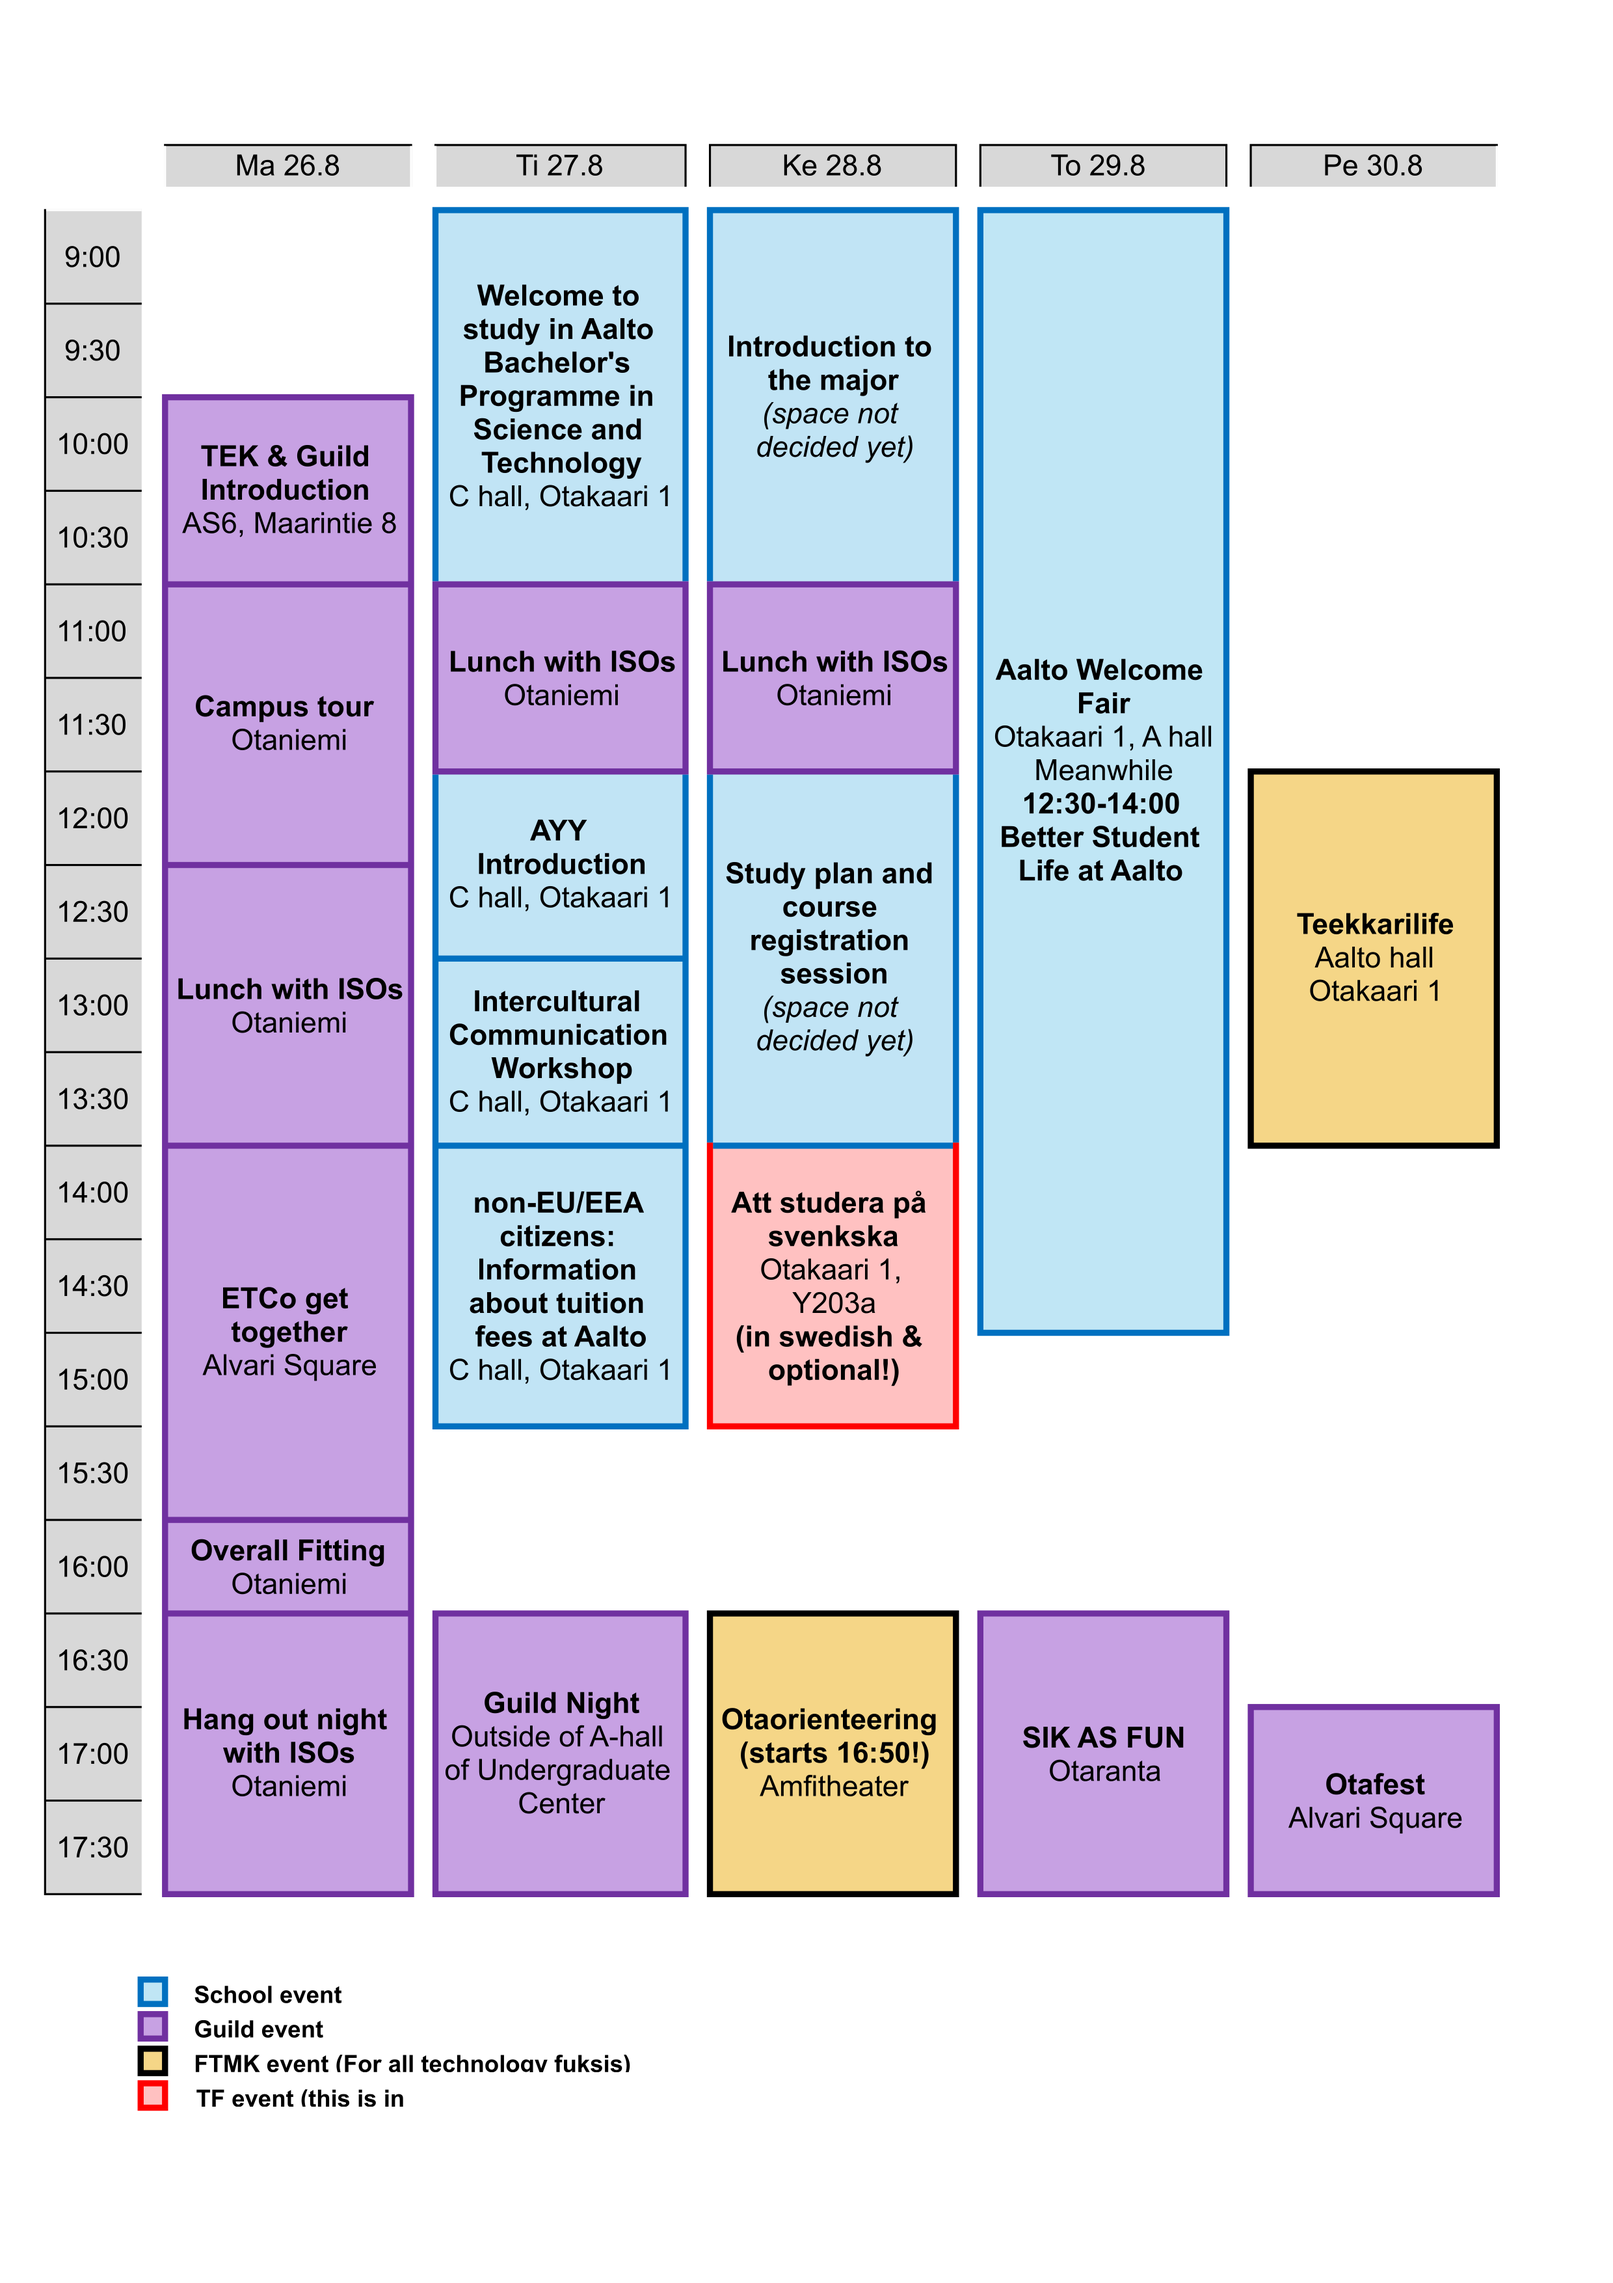
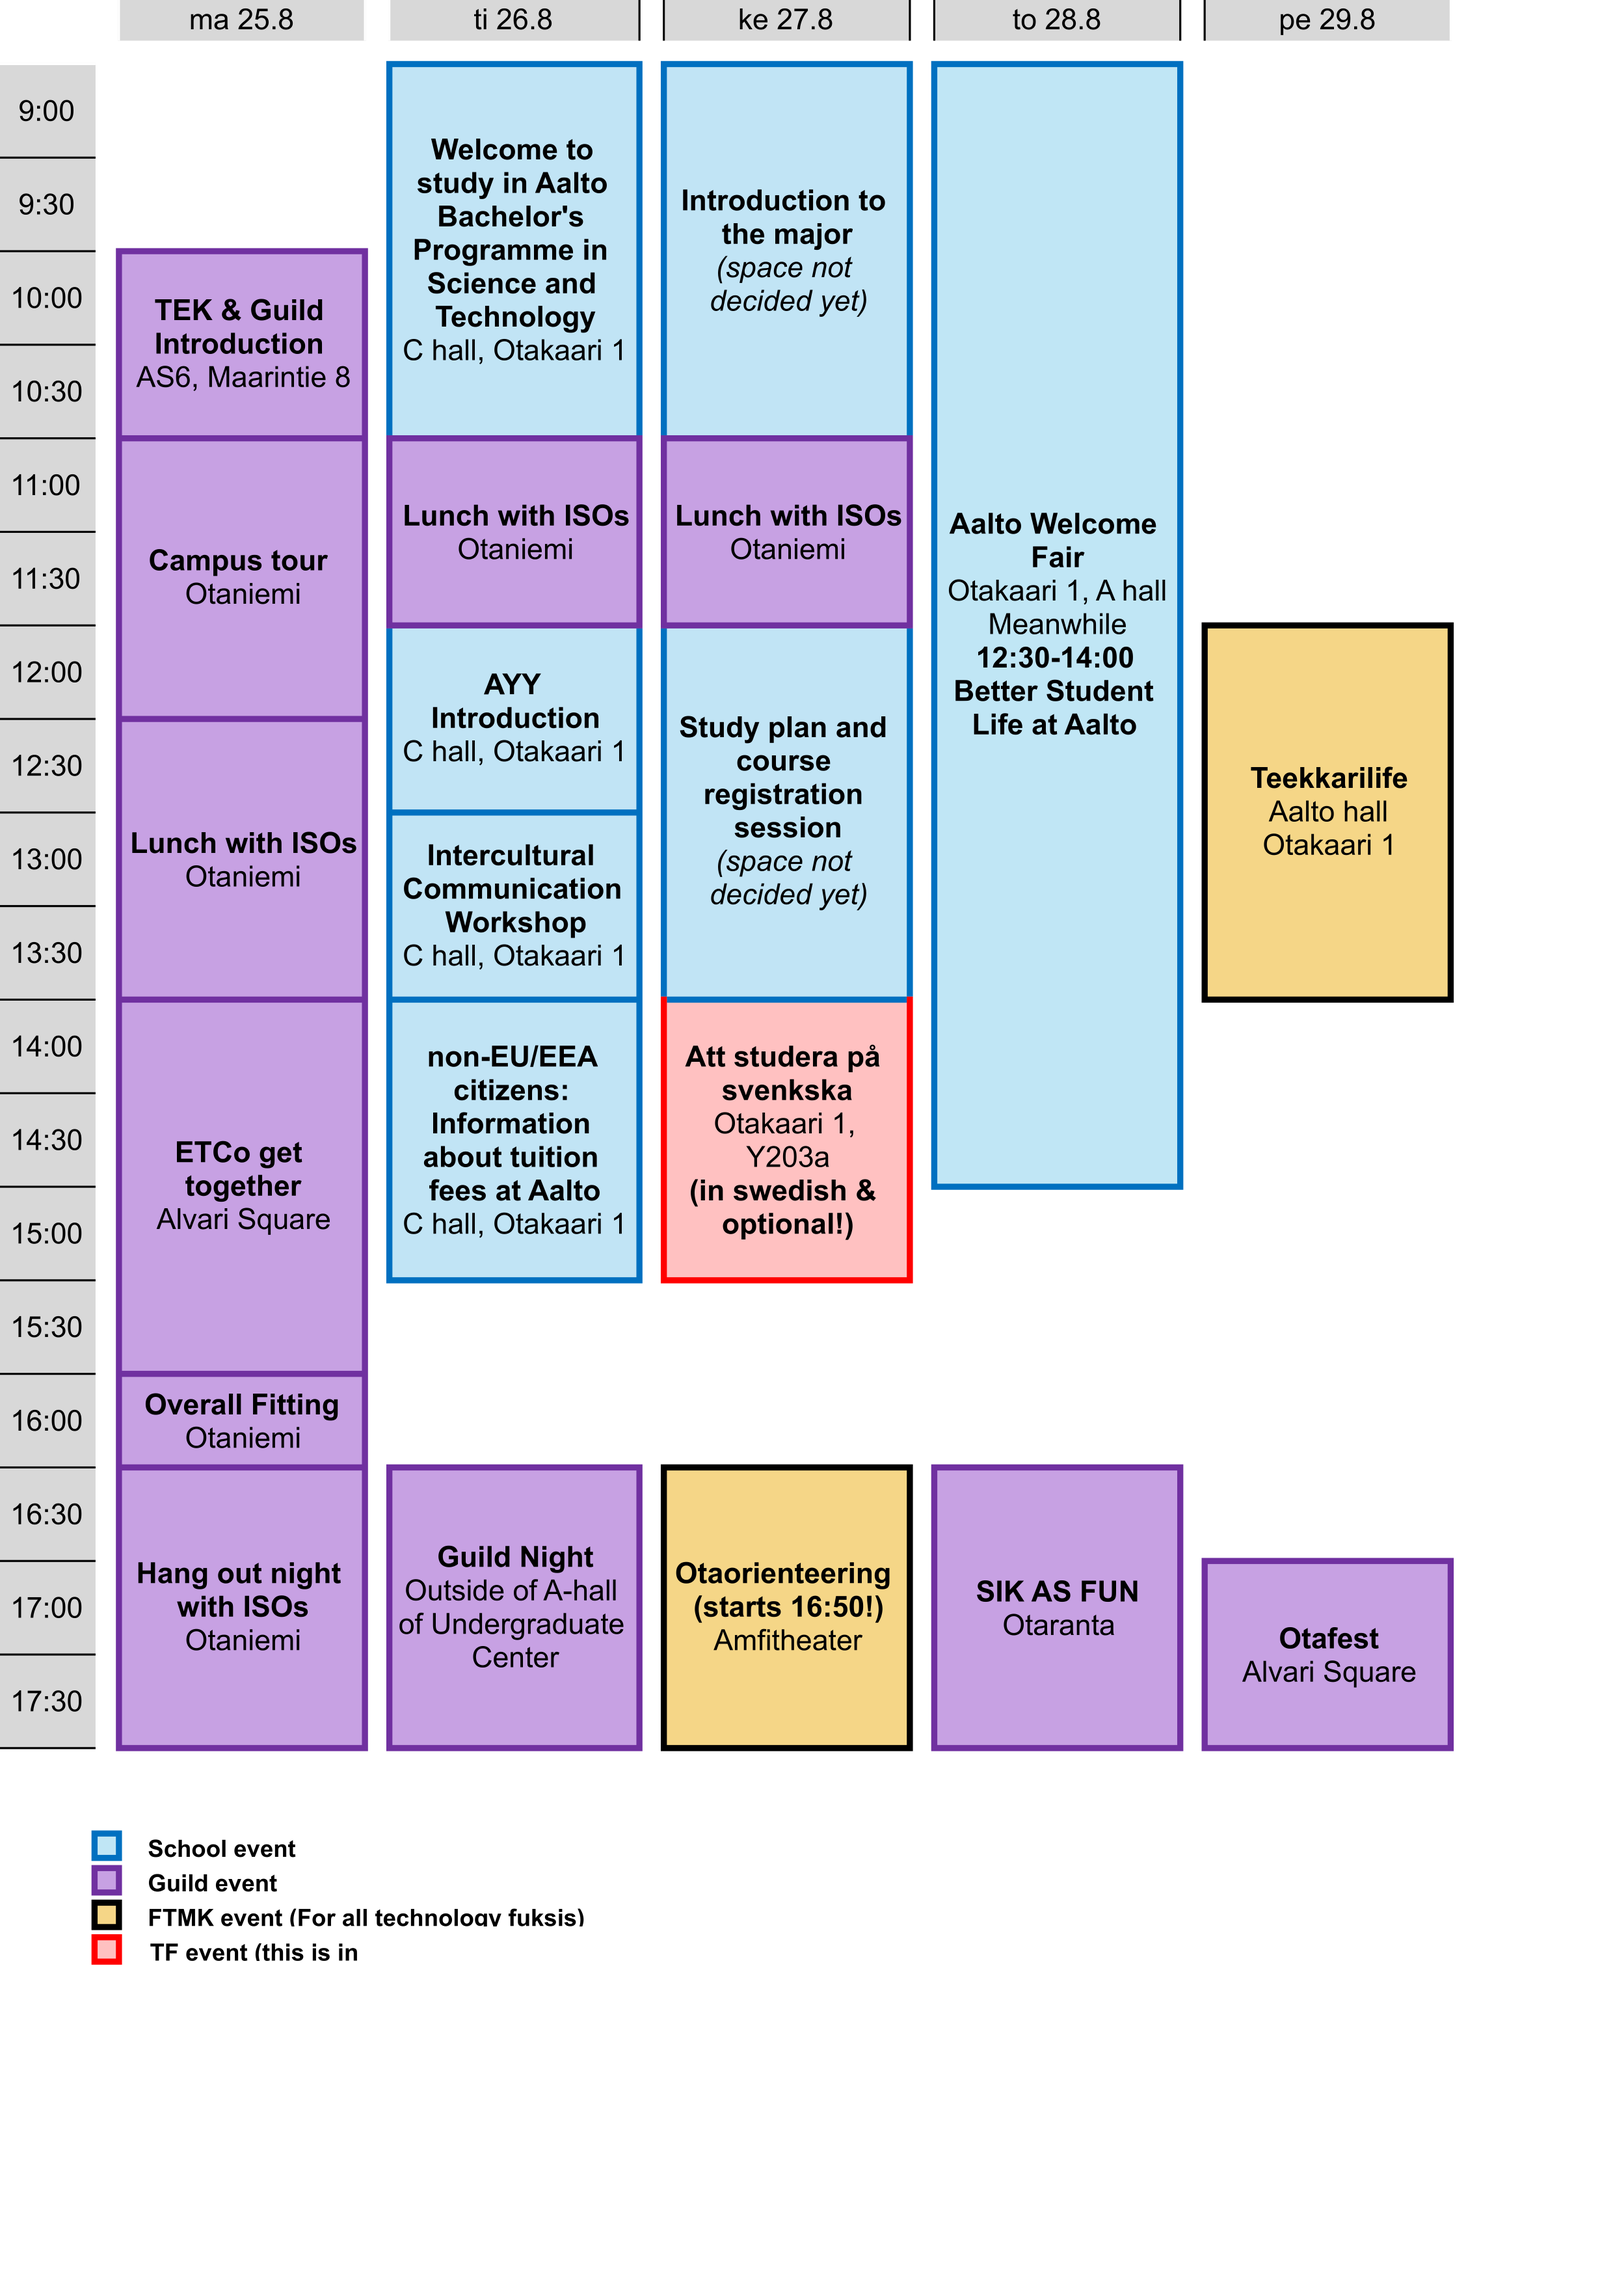
Fixed dates in DSD orientationweek Fixed Fuksticaptin -> Fuksi Captain

diff --git a/src/pages/en/fuksis/index.tsx b/src/pages/en/fuksis/index.tsx
@@ -17,7 +17,7 @@ interface Props extends PageProps {
 
 const Fuksis: React.FC<Props> = ({ pageContext }) => {
   const data1 = {
-    title: 'Fuksicaptain',
+    title: 'Fuksi Captain',
     name: 'Joel Forsström',
     email: 'fuksikapteeni@as.fi',
     phone: '+358 417455475',
@@ -26,7 +26,7 @@ const Fuksis: React.FC<Props> = ({ pageContext }) => {
   };
 
   const data2 = {
-    title: 'Fuksicaptain',
+    title: 'Fuksi Captain',
     name: 'Kalle Kajoniemi',
     email: 'fuksikapteeni@as.fi',
     phone: '+358 452052581',
